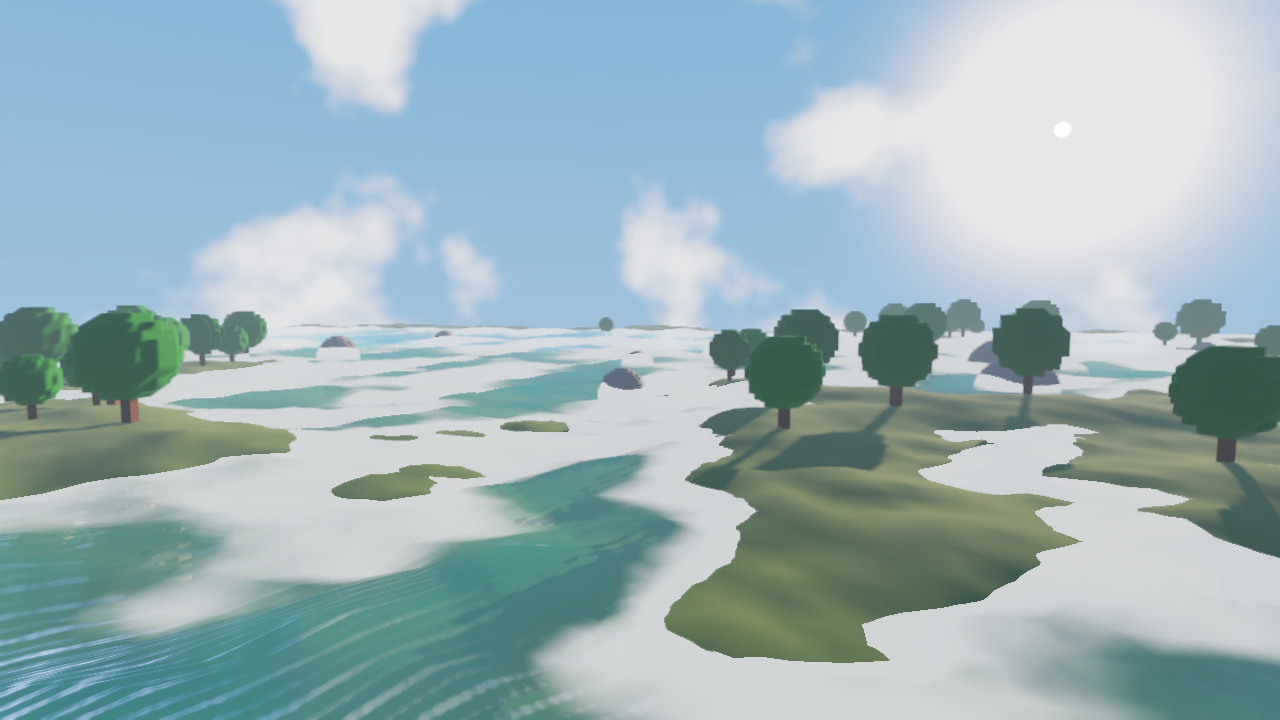
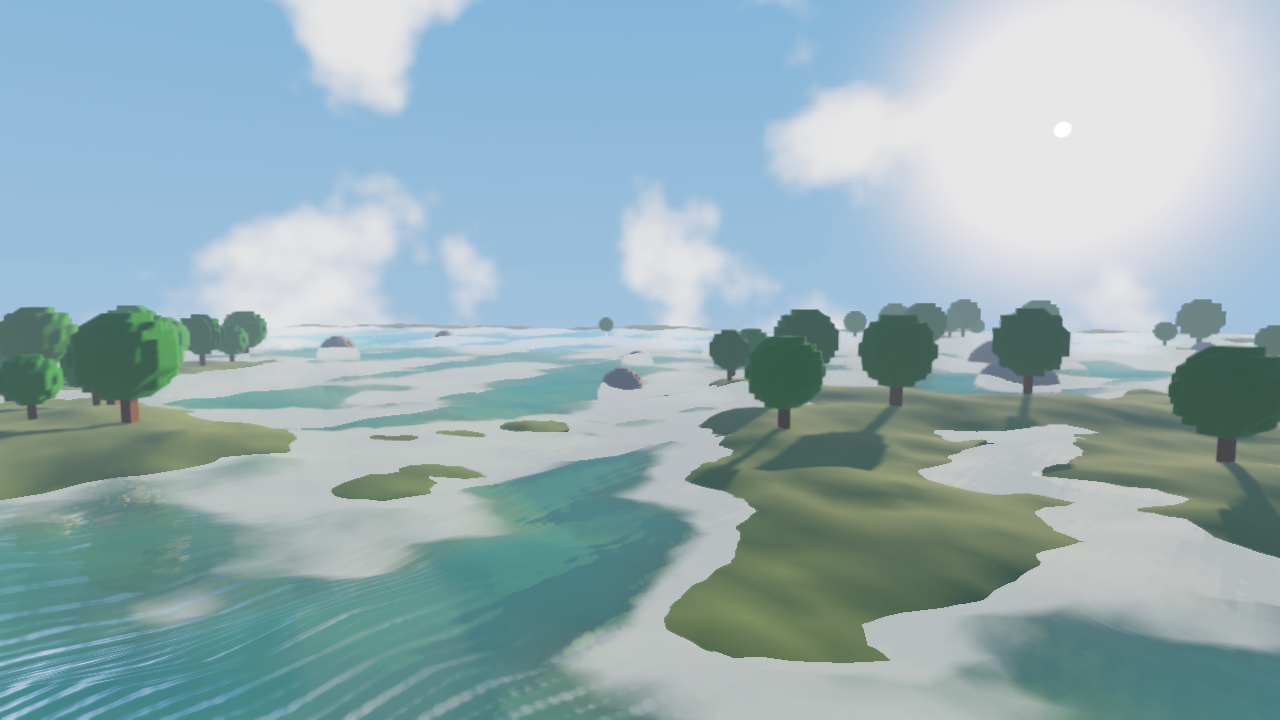
G13 water: much less foam, a bit more reflection; compress all doc screenshots
- foam drastically reduced: foamCrestStart 0.88->0.95, foamCrestSoftness
  0.06->0.04, shoreFoamWidth 0.5->0.3, foamStrength 0.55->0.3
- reflection slightly stronger: sky-cubemap mirror now weighted by the full
  fresnel, fresnelF0 0.02->0.035, planar distortion 0.03->0.02
- re-rendered docs/images/g13_water_*.png; all docs/images/*.png losslessly
  re-compressed with docs/compress_png.py (g13 shots ~3.7MB -> ~0.4-0.8MB)
- tutorials + CHANGELOG updated

diff --git a/include/fuhglgraphics/water/water_surface.hpp b/include/fuhglgraphics/water/water_surface.hpp
@@ -87,14 +87,14 @@ public:
     fuhgl::math::Vec3 deepColor{0.004f, 0.05f, 0.11f};    ///< absorbed deep-water tint
     fuhgl::math::Vec3 shallowColor{0.06f, 0.30f, 0.38f};    ///< shallow-water tint near shore
     fuhgl::math::Vec3 foamColor{0.92f, 0.96f, 1.0f};         ///< crest/shore foam ("Gicht")
-    float fresnelF0 = 0.02f;          ///< dielectric fresnel reflectance at normal incidence
+    float fresnelF0 = 0.035f;         ///< dielectric fresnel reflectance at normal incidence
     float reflectionStrength = 1.f;   ///< planar-reflection intensity (0 = off)
-    float distortion = 0.03f;         ///< reflection UV offset per unit of normal xz (lower = sharper mirror)
+    float distortion = 0.02f;         ///< reflection UV offset per unit of normal xz (lower = sharper mirror)
     float refractionDistortion = 0.035f; ///< refraction UV offset per unit of normal xz
-    float foamCrestStart = 0.88f;     ///< crest foam starts at this fraction of maxWaveHeight
-    float foamCrestSoftness = 0.06f;  ///< smooth width of the crest-foam ramp
-    float shoreFoamWidth = 0.5f;      ///< water depth (world units) over which shore foam fades in
-    float foamStrength = 0.55f;       ///< overall foam intensity (0 = off)
+    float foamCrestStart = 0.95f;     ///< crest foam starts at this fraction of maxWaveHeight
+    float foamCrestSoftness = 0.04f;  ///< smooth width of the crest-foam ramp
+    float shoreFoamWidth = 0.3f;      ///< water depth (world units) over which shore foam fades in
+    float foamStrength = 0.3f;        ///< overall foam intensity (0 = off)
     float glintPower = 512.f;         ///< sun-glint specular exponent
     float detailNormalScale = 2.2f;   ///< strength of the procedural ripple detail normal
 

diff --git a/src/render/deferred_glsl.hpp b/src/render/deferred_glsl.hpp
@@ -1572,7 +1572,7 @@ void main() {
     vec3 skyRefl = (uUseSkyCube == 1) ? texture(uSkyCube, R).rgb
                                       : mix(uSkyBottom, uSkyTop, clamp(R.y, 0.0, 1.0));
     skyRefl += uSunColor * smoothstep(uSunCos, 1.0, dot(R, uSunDir));
-    refl += skyRefl * clamp(fres, 0.0, 1.0) * 0.9;
+    refl += skyRefl * clamp(fres, 0.0, 1.0);
     // refraction: scene HDR distorted by the normal, absorbed with depth, tinted by the body color
     vec2 refrUV = clamp(uv + N.xz * uRefractionDistortion, vec2(0.001), vec2(0.999));
     vec3 refr = texture(uSceneHdr, refrUV).rgb;

diff --git a/CHANGELOG.md b/CHANGELOG.md
@@ -344,12 +344,14 @@ All notable changes to FuhGlGraphics are documented here. The format follows
 ### Changed
 
 - **G13 water tuning**: sharper surface reflection — the water shader now adds a crisp
-  sky-cubemap mirror term (sampled by the reflected ray, plus the sun disk, weighted by
-  `fresnel * 0.9`) on top of the planar reflection, the reflection target resolution
-  raised (`waterReflectionScale` 0.5 → 0.75) and the distortion defaults dropped
-  (`distortion` 0.12 → 0.03, `refractionDistortion` 0.06 → 0.035). Less foam:
-  `foamCrestStart` 0.72 → 0.88, `foamCrestSoftness` 0.18 → 0.06, `shoreFoamWidth` 1.2 → 0.5,
-  `foamStrength` 1.0 → 0.55. Reference images `docs/images/g13_water_*.png` re-rendered.
+  sky-cubemap mirror term (sampled by the reflected ray, plus the sun disk, weighted by the
+  full fresnel) on top of the planar reflection, the reflection target resolution raised
+  (`waterReflectionScale` 0.5 → 0.75), slightly higher base reflectance (`fresnelF0`
+  0.02 → 0.035) and lower distortion (`distortion` 0.12 → 0.02, `refractionDistortion`
+  0.06 → 0.035). Much less foam: `foamCrestStart` 0.72 → 0.95, `foamCrestSoftness`
+  0.18 → 0.04, `shoreFoamWidth` 1.2 → 0.3, `foamStrength` 1.0 → 0.3. Reference images
+  `docs/images/g13_water_*.png` re-rendered and all `docs/images/*.png` losslessly
+  re-compressed with `docs/compress_png.py`.
 
 ### Planned
 

diff --git a/docs/de/tutorials/g13_water.md b/docs/de/tutorials/g13_water.md
@@ -51,8 +51,8 @@ wc.surface.create(160, 220.f);                        // GL-Kontext nötig
 wc.surface.setDefaultWaves();                         // 4 Gerstner-Wellen; oder wc.surface.waves tunen
 wc.surface.deepColor    = {0.01f, 0.08f, 0.13f};
 wc.surface.shallowColor = {0.08f, 0.35f, 0.40f};
-wc.surface.foamCrestStart = 0.88f;                    // Kamm-Schaum („Gicht") nur oberhalb 88% der max. Wellenhöhe
-wc.surface.shoreFoamWidth = 0.5f;                     // Wassertiefe in Welt-Einheiten (schmaler Ufersaum)
+wc.surface.foamCrestStart = 0.95f;                    // Kamm-Schaum („Gicht") nur oberhalb 95% der max. Wellenhöhe
+wc.surface.shoreFoamWidth = 0.3f;                     // Wassertiefe in Welt-Einheiten (sehr schmaler Ufersaum)
 
 scene.root().effects.enable(fuhglgraphics::render::Effect::Water);
 // pro Frame:

diff --git a/docs/en/tutorials/g13_water.md b/docs/en/tutorials/g13_water.md
@@ -49,8 +49,8 @@ wc.surface.create(160, 220.f);                        // GL context required
 wc.surface.setDefaultWaves();                         // 4 Gerstner waves; or tune wc.surface.waves
 wc.surface.deepColor    = {0.01f, 0.08f, 0.13f};
 wc.surface.shallowColor = {0.08f, 0.35f, 0.40f};
-wc.surface.foamCrestStart = 0.88f;                    // crest foam ("Gicht") only above 88% of the max wave height
-wc.surface.shoreFoamWidth = 0.5f;                     // world units of water depth (thin shore band)
+wc.surface.foamCrestStart = 0.95f;                    // crest foam ("Gicht") only above 95% of the max wave height
+wc.surface.shoreFoamWidth = 0.3f;                     // world units of water depth (very thin shore band)
 
 scene.root().effects.enable(fuhglgraphics::render::Effect::Water);
 // per frame:
